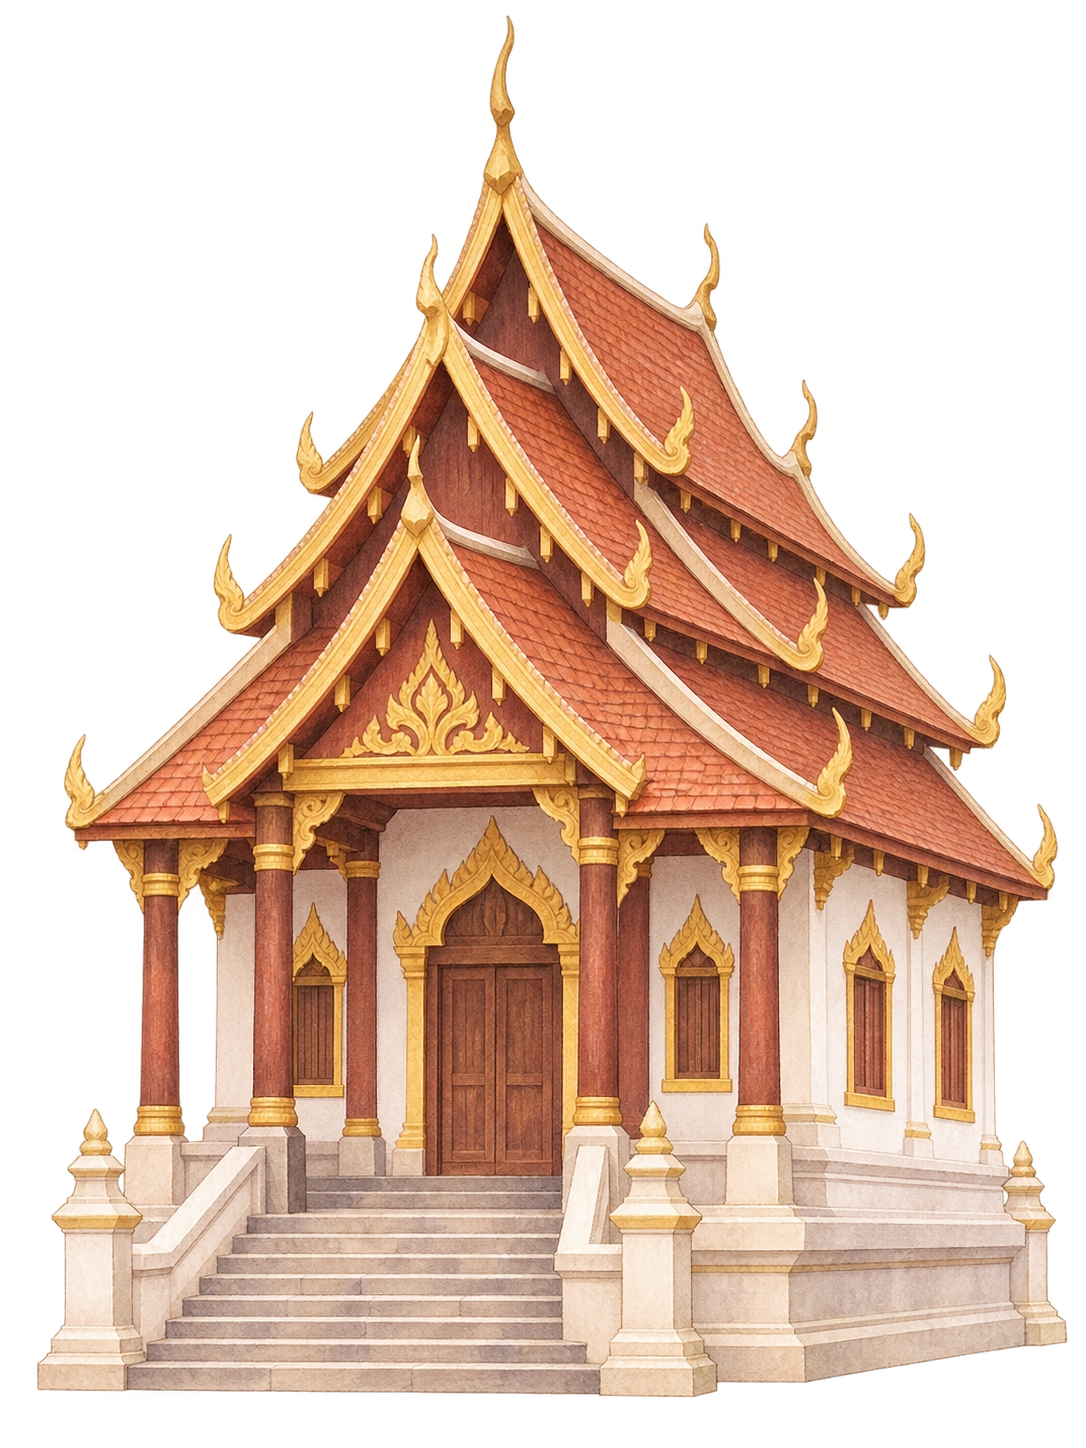
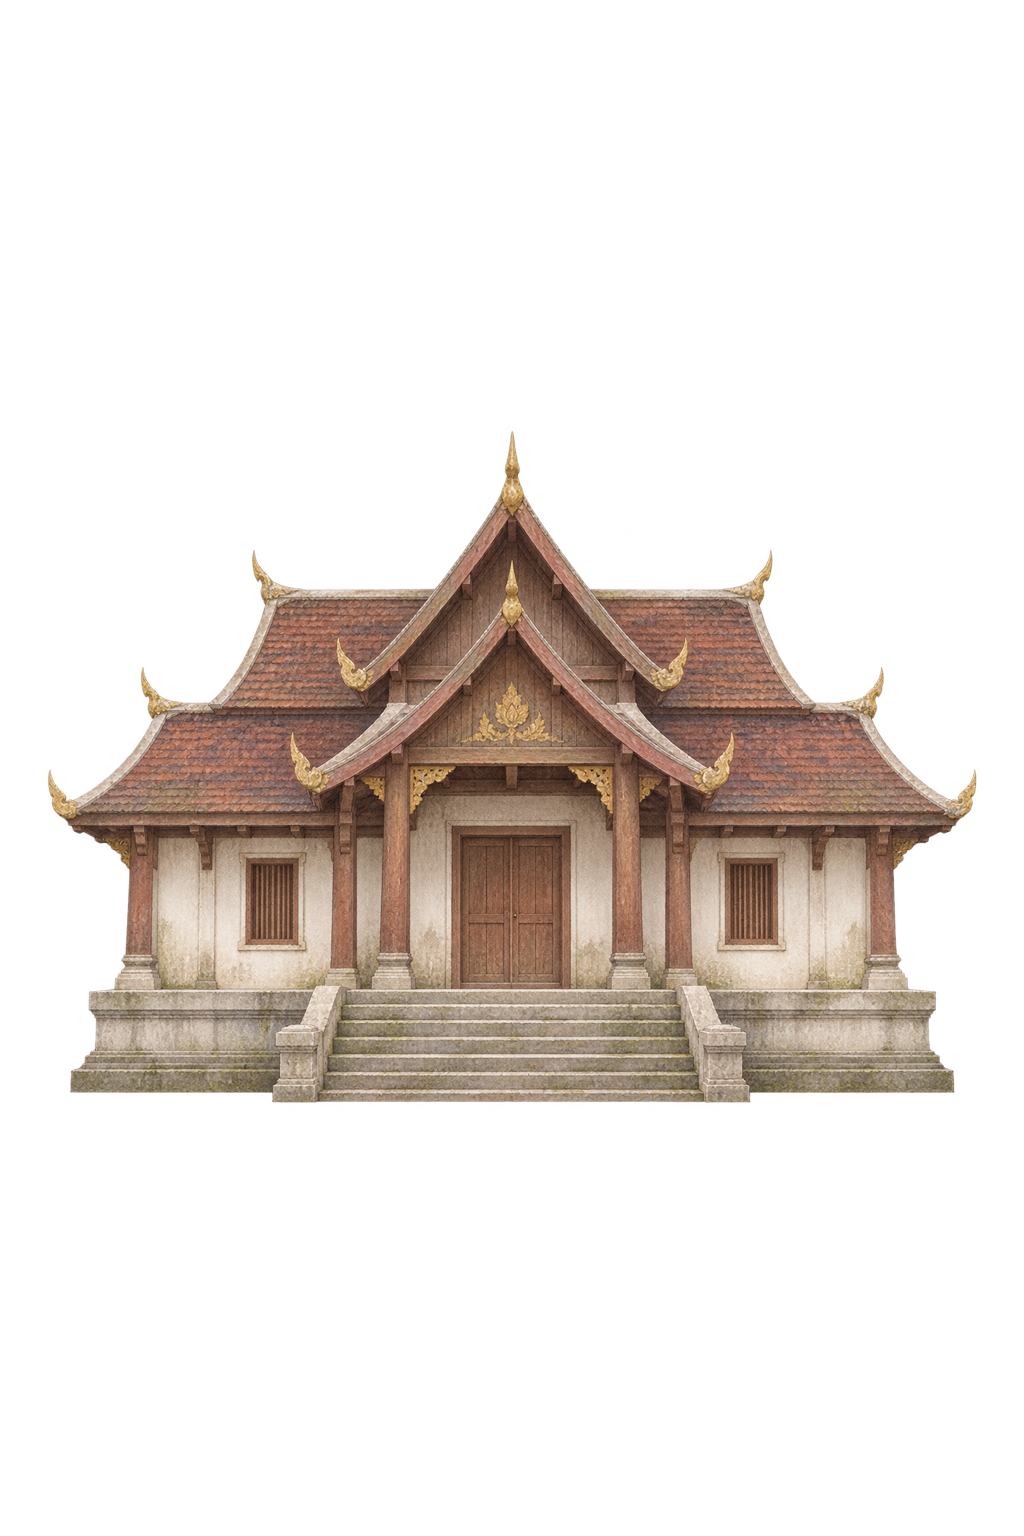
fix: redraw Nam Tong exterior front view

diff --git a/review/p73-namtong/README.md b/review/p73-namtong/README.md
@@ -1,7 +1,7 @@
 # P73 Chùa Nam Tông 外观审图样张
 
 - 文件：`exterior-namtong-day.webp`
-- 规格：2:3 竖幅、透明底、三分之四正面视角、软水彩 HD-2D；与既有八处外观同套对比图：`p73-c-exteriors-overview.webp`
+- 规格：2:3 竖幅、正面左右对称、透明底、软水彩 HD-2D；补充 1 已压低颜色并加入旧水彩调子；与既有八处外观同套对比图：`p73-c-exteriors-overview.webp`
 - 造型：南传（上座部）寺院通用模板，多重叠檐陡屋顶、檐角上翘、白墙、红瓦、前置台阶；不对应任何真实寺院。
 - 约束：无人物、无佛像正脸、无文字；标记“待顾问确认”（确认记录第 33 条）。
 - 来源：OpenAI 内置 imagegen；外部来源 `none`；生成日期 2026-11-12；状态 `review-only`，未进入正式素材目录。
